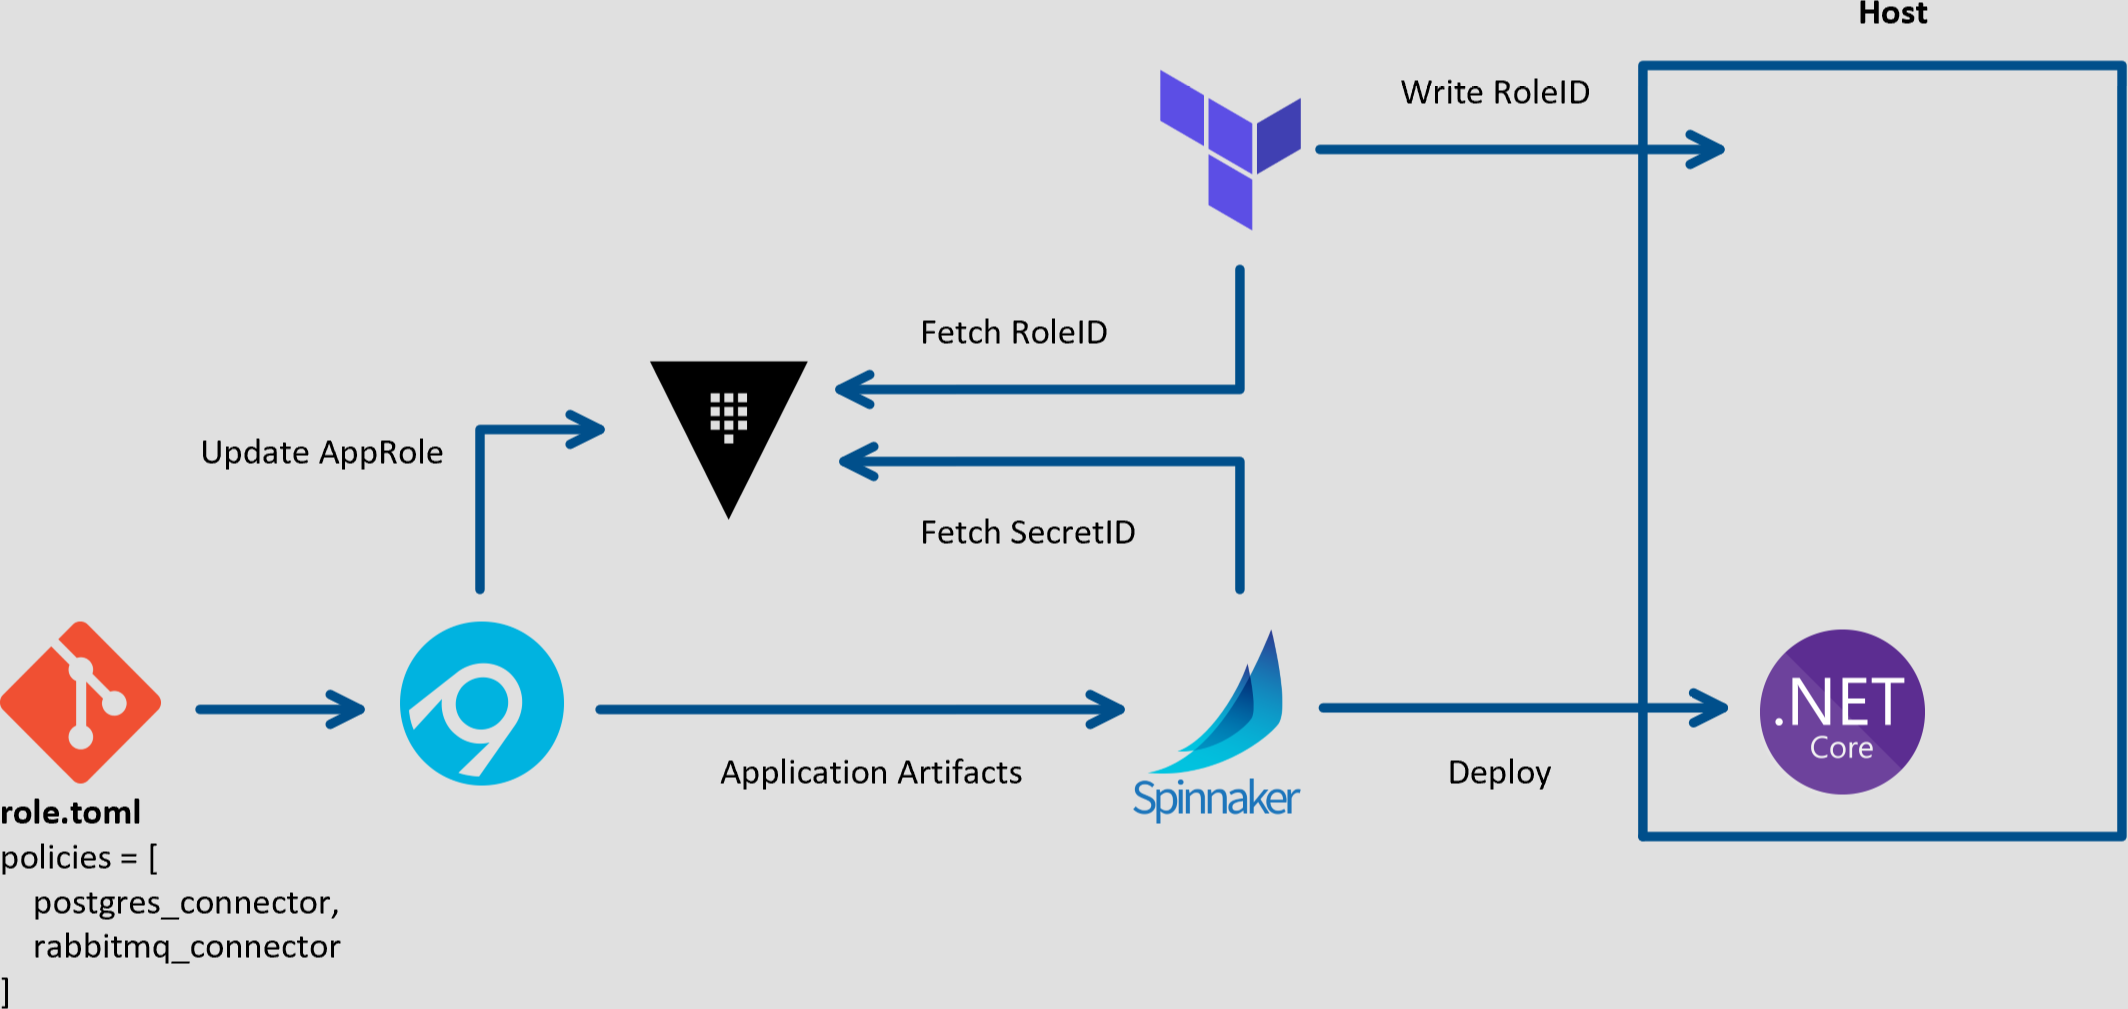
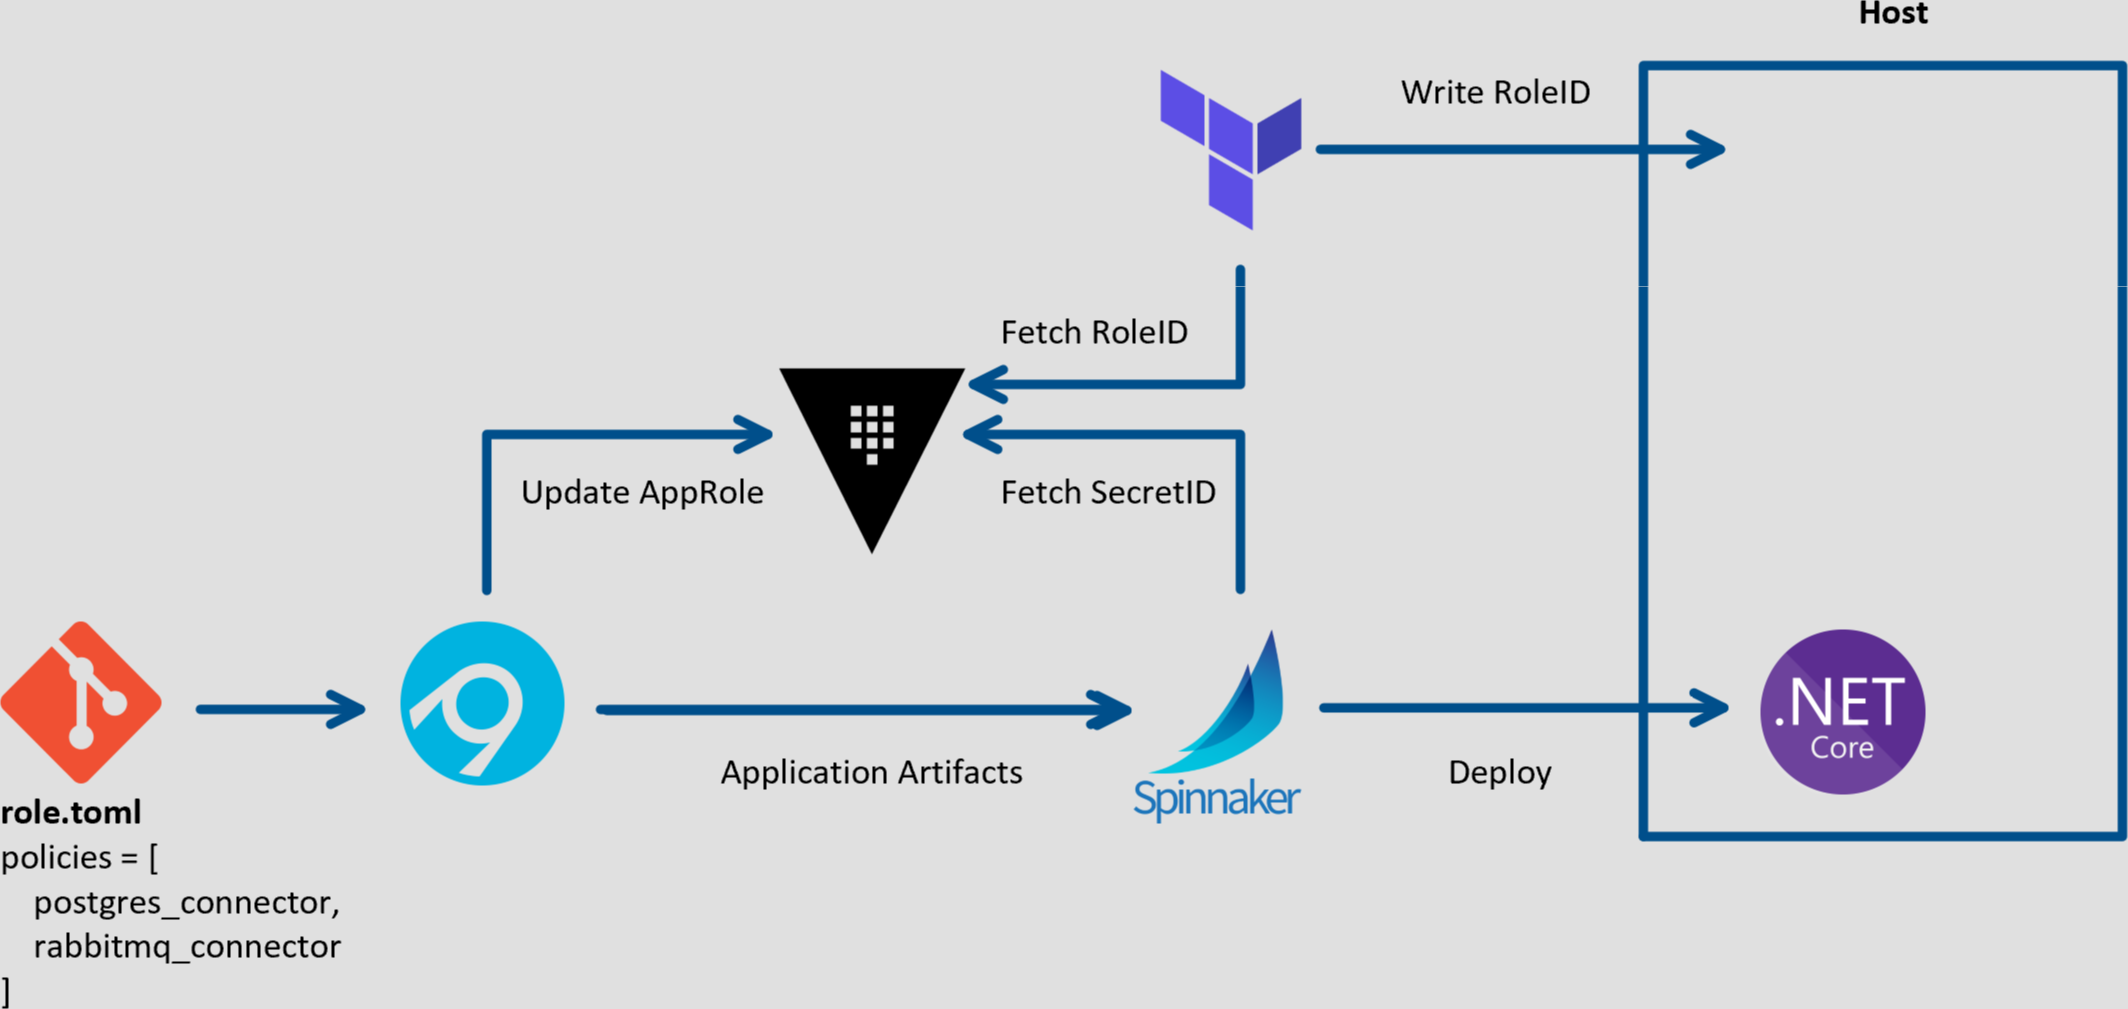
vault: add appRole flow slides

diff --git a/content/vault/slides.md b/content/vault/slides.md
@@ -93,6 +93,12 @@ Note:
 
 
 ![approle role and secret id progression](content/vault/img/approles.png) <!-- .element: class="no-border" -->
+<!-- .slide: data-transition="slide-in none-out" -->
+
+
+
+![approles, with roleid embedded in app](content/vault/img/approles-embedded.png) <!-- .element: class="no-border" -->
+<!-- .slide: data-transition="none-in slide-out" -->
 
 
 
